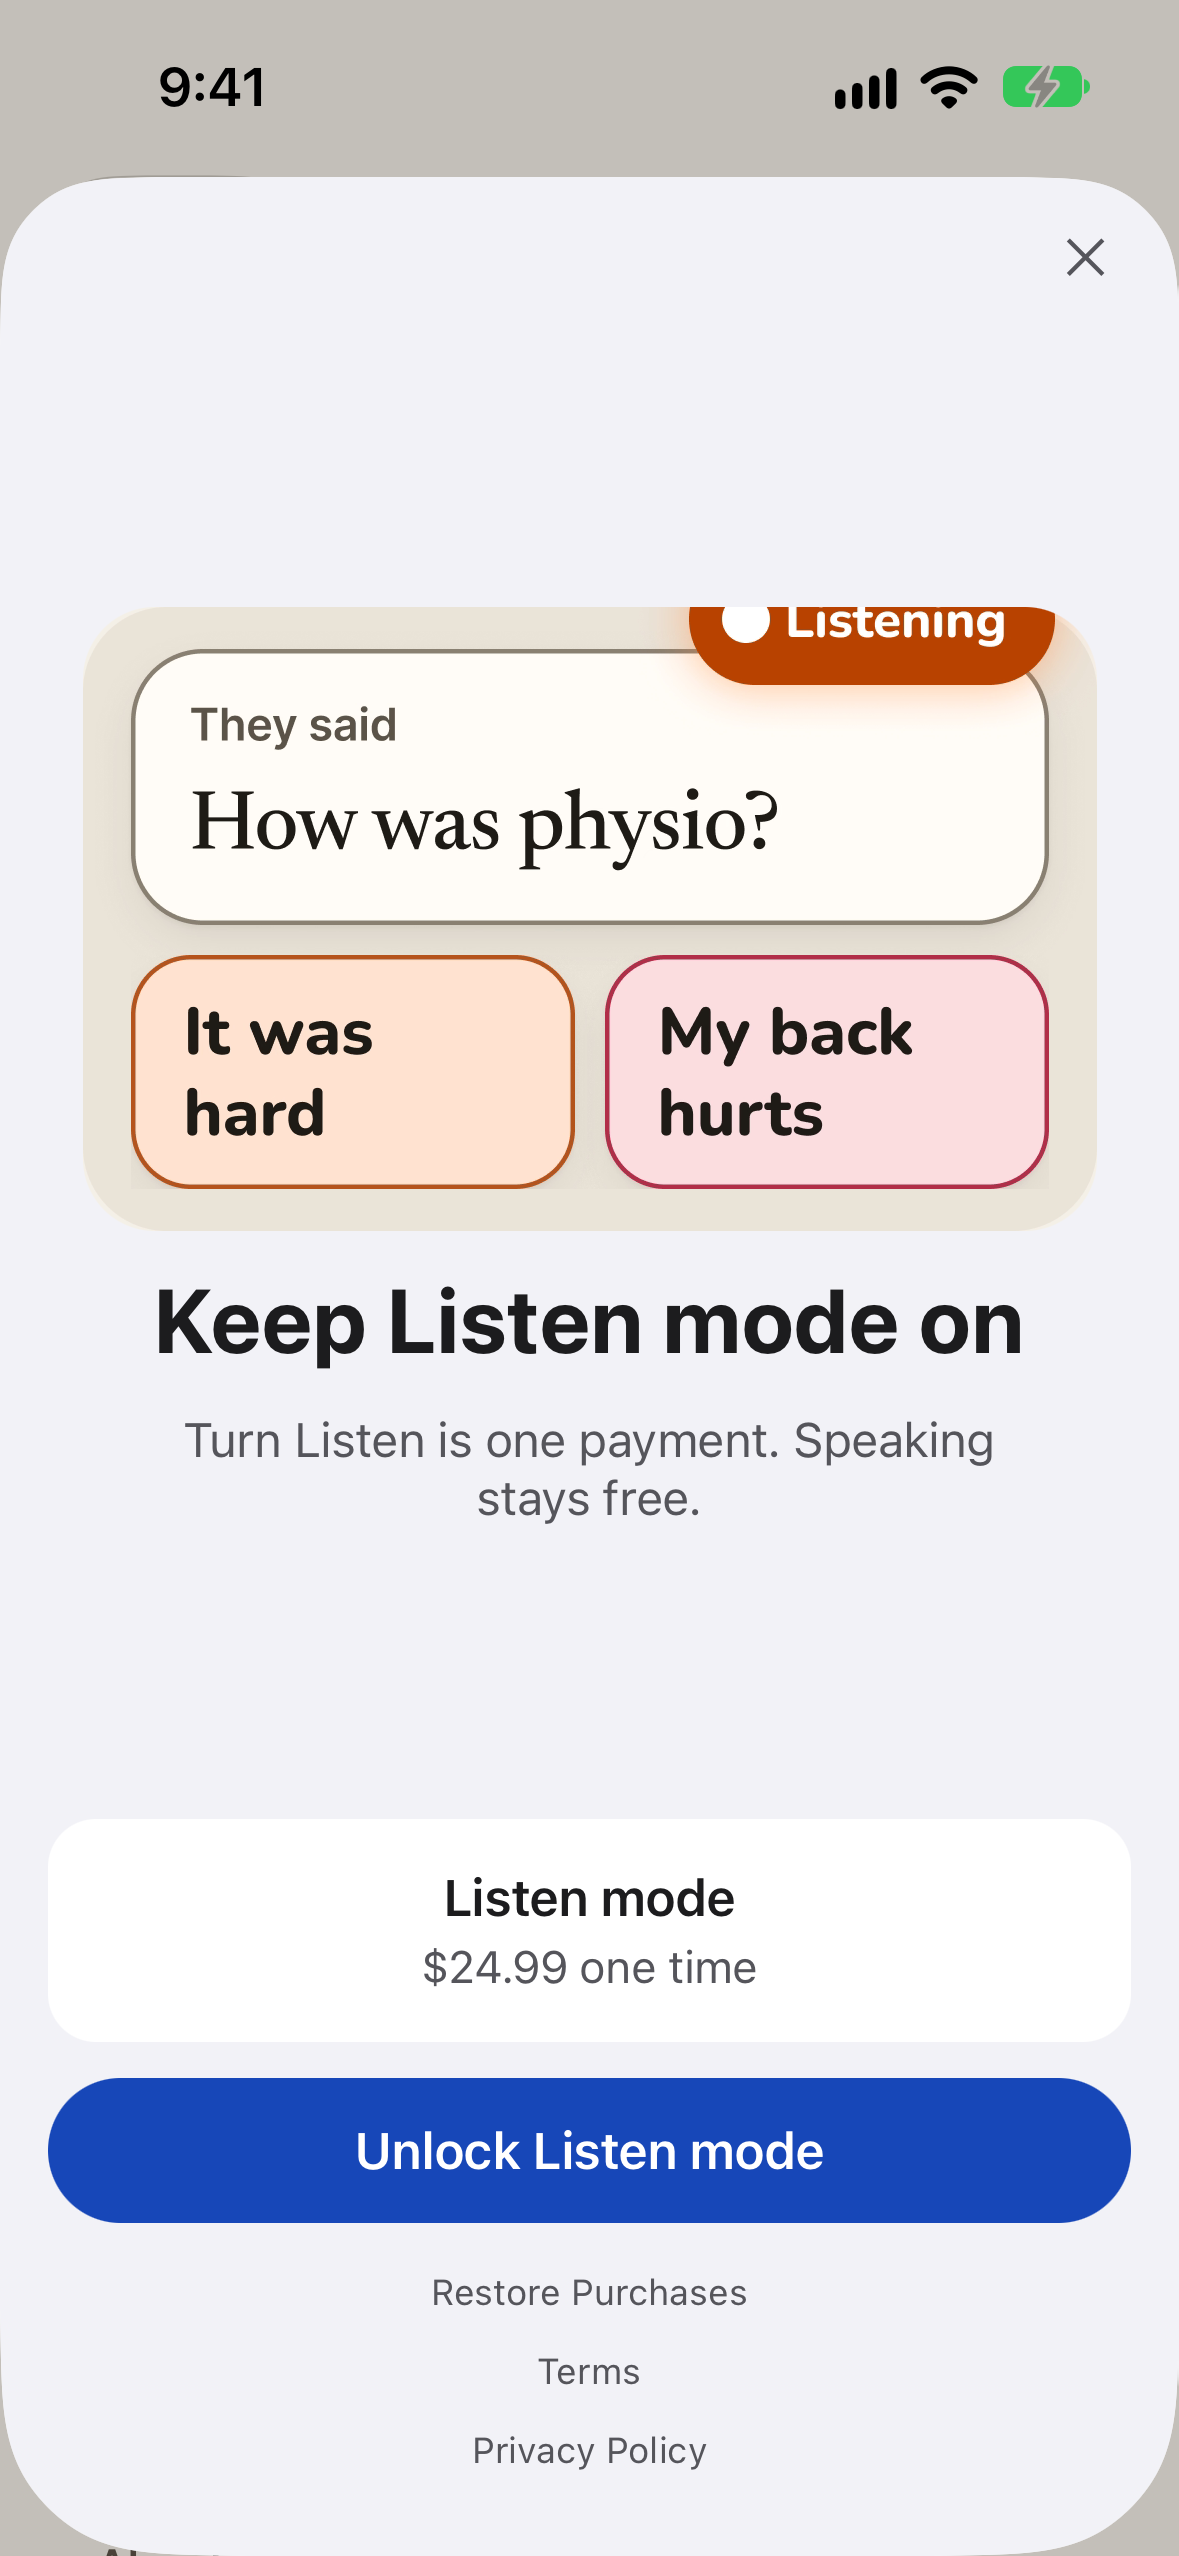
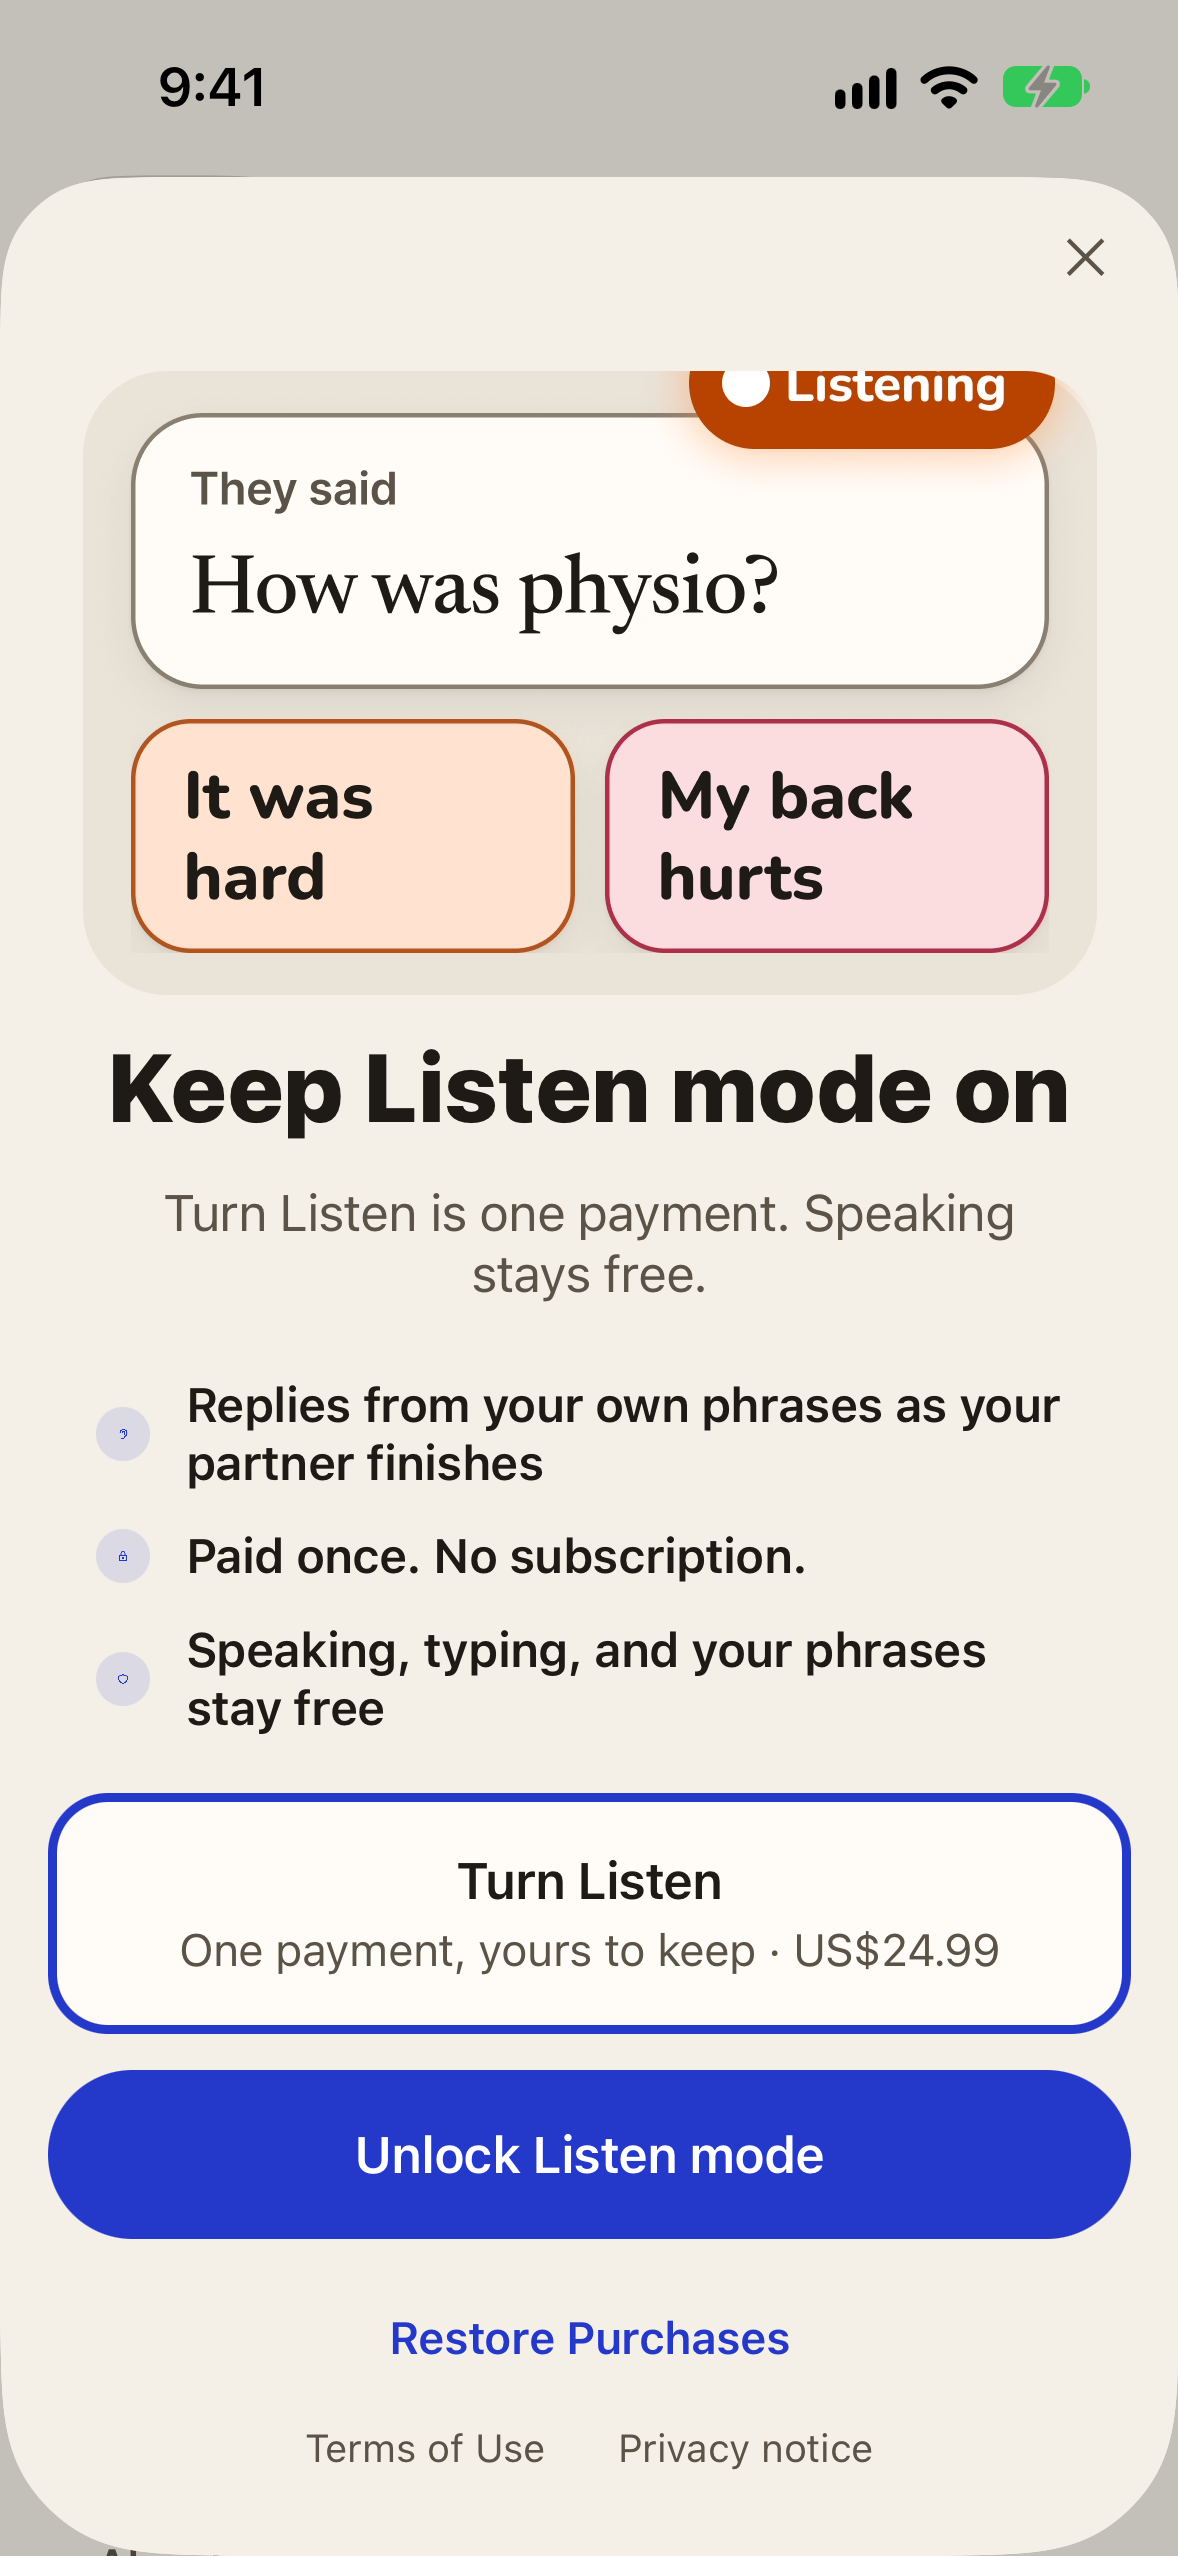
fix: refresh v2 screenshots and AX5 flows (#185)

diff --git a/README.md b/README.md
@@ -101,11 +101,11 @@ The hosted decision model's top 6 leads embeddings by 29.7 points, with a 95% pa
 
 ### Screenshots
 
-|                                                                  Speaking grid                                                                  |                                                               Partner consent                                                               |                                                               Suggested replies                                                                |
-| :---------------------------------------------------------------------------------------------------------------------------------------------: | :-----------------------------------------------------------------------------------------------------------------------------------------: | :--------------------------------------------------------------------------------------------------------------------------------------------: |
-| <img src="assets/readme/screenshots/speaking-grid.png" alt="Clinic speaking grid with conversation phrases and the Quick category" width="240"> | <img src="assets/readme/screenshots/partner-consent.png" alt="Consent card asking whether Turn may listen to the conversation" width="240"> | <img src="assets/readme/screenshots/suggested-replies.png" alt="Turn offers saved replies after the partner asks How was physio?" width="240"> |
-|                                                             **Phrase bank editor**                                                              |                                                           **Turn Listen paywall**                                                           |                                                                  **Settings**                                                                  |
-|   <img src="assets/readme/screenshots/phrase-bank-editor.png" alt="Chat category in the phrase bank with editable saved phrases" width="240">   | <img src="assets/readme/screenshots/turn-listen-paywall.png" alt="Turn Listen one-time purchase in the RevenueCat Test Store" width="240">  | <img src="assets/readme/screenshots/settings.png" alt="Turn Settings with voice, Listen mode, phrase bank, and purchase options" width="240">  |
+|                                                                  Speaking grid                                                                  |                                                                 Partner consent                                                                 |                                                               Suggested replies                                                                |
+| :---------------------------------------------------------------------------------------------------------------------------------------------: | :---------------------------------------------------------------------------------------------------------------------------------------------: | :--------------------------------------------------------------------------------------------------------------------------------------------: |
+| <img src="assets/readme/screenshots/speaking-grid.png" alt="Clinic speaking grid with conversation phrases and the Quick category" width="240"> |   <img src="assets/readme/screenshots/partner-consent.png" alt="Consent card asking whether Turn may listen to the conversation" width="240">   | <img src="assets/readme/screenshots/suggested-replies.png" alt="Turn offers saved replies after the partner asks How was physio?" width="240"> |
+|                                                             **Phrase bank editor**                                                              |                                                             **Turn Listen paywall**                                                             |                                                                  **Settings**                                                                  |
+|   <img src="assets/readme/screenshots/phrase-bank-editor.png" alt="Chat category in the phrase bank with editable saved phrases" width="240">   | <img src="assets/readme/screenshots/turn-listen-paywall.png" alt="Turn Listen paywall with three promises and a one-time purchase" width="240"> | <img src="assets/readme/screenshots/settings.png" alt="Turn Settings with voice, Listen mode, phrase bank, and purchase options" width="240">  |
 
 <p align="right"><a href="#readme-top">&uarr;</a></p>
 
@@ -131,7 +131,7 @@ The steps below follow the Simulator preview, where the partner's line is typed;
 
 5. **Keep listening.** Listen mode answers 20 partner lines for free; the 21st opens the Turn Listen paywall. To buy it, open **Settings**, tap **Unlock Listen mode**, and complete the purchase in RevenueCat's Test Store. **Restore Purchases** in Settings refreshes the status after a reinstall.
 
-   <img src="assets/readme/screenshots/step-5-keep-listening.png" alt="Turn Listen paywall with one-time price, Unlock, and Restore Purchases" width="300">
+   <img src="assets/readme/screenshots/step-5-keep-listening.png" alt="Turn Listen paywall with the one-time price, Unlock Listen mode, and Restore Purchases" width="300">
 
 <p align="right"><a href="#readme-top">&uarr;</a></p>
 

diff --git a/docs/DESIGN.md b/docs/DESIGN.md
@@ -1495,8 +1495,8 @@ The home screen is ready to speak within two seconds (PERF-3), with the grid sho
 
 RevenueCat's paywall, over the current screen (PAY-2), built in RevenueCat's editor to match:
 
-- **Content.** Text only: a title, one line saying Turn Listen is one payment and speaking stays free, the package's price, a marker-blue purchase button with `on-accent` text, white in light and near-black in dark, Restore Purchases, the legal links, and the close button.
-- **Nothing that moves.** No images, carousel, video, or transitions, since paywalls keep carousels and component transitions moving under Reduce Motion ([Turn's iOS design notes][ios-paywall-a11y]).
+- **Content.** The still Listen hero, "Keep Listen mode on", the one-payment subtitle, three promises with ear, lock, and shield symbols, the lifetime package and dynamic price, the `accent` purchase button with `on-accent` text, Restore Purchases, the legal links, and the close button. The selected package has an `accent` edge.
+- **Nothing that moves.** The hero is a static image. There is no carousel, video, or component transition, since paywalls keep carousels and component transitions moving under Reduce Motion ([Turn's iOS design notes][ios-paywall-a11y]).
 - **Colors and type.** The tokens' light and dark values, each pair at 4.5 to 1 or more without Increase Contrast, since paywalls have no increased-contrast values ([Turn's iOS design notes][ios-paywall-limits]); the system font, since Apple's license bars uploading SF Pro; and sizes that follow Dynamic Type, which paywalls do unless the dashboard turns it off ([Turn's iOS design notes on paywall accessibility][ios-paywall-a11y]).
 - **Test Store's alert.** Test Store's purchase alert is UIKit's own, so there's nothing to design, and the video names it as a test purchase ([Turn's iOS design notes][ios-test-store]).
 
